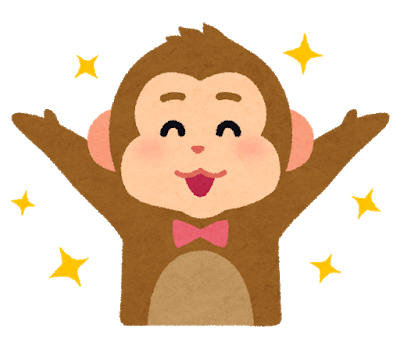
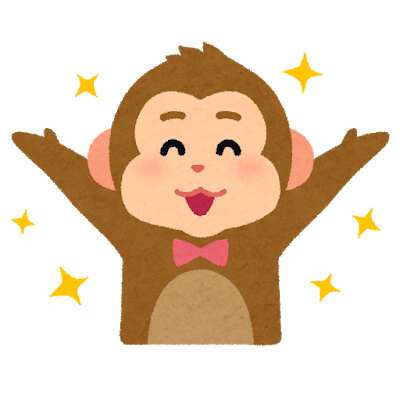
fix: 画像がはみ出ていたバグを修正

diff --git a/templates/result.html b/templates/result.html
@@ -9,11 +9,11 @@
     <p>おなまえ<strong>{{ user.name }}</strong>さん<br />
         ご予約<strong>{{ user.reserve_name }}</strong>さんのご招待で予約登録済みです。</p>
     {% endif %}
-  <img src="../static/images/eto_saru_happy.png" />
+    <img src="../static/images/eto_saru_happy.png" width="60%" />
   <p>6月14日 <strong>[会場の場所]</strong> にてお待ちしております。</p>
   {% else %}
   <p><strong>{{ user.name }}</strong>さんのご予約が確認出来ませんでした。</p>
-  <img src="../static/images/ojigi_animal_kuma.png" />
+  <img src="../static/images/ojigi_animal_kuma.png" width="45%"/>
   <p>数日間確認が取れない場合は再度ご予約をおねがいします。</p>
   {% endif %}
 {% endblock %}
